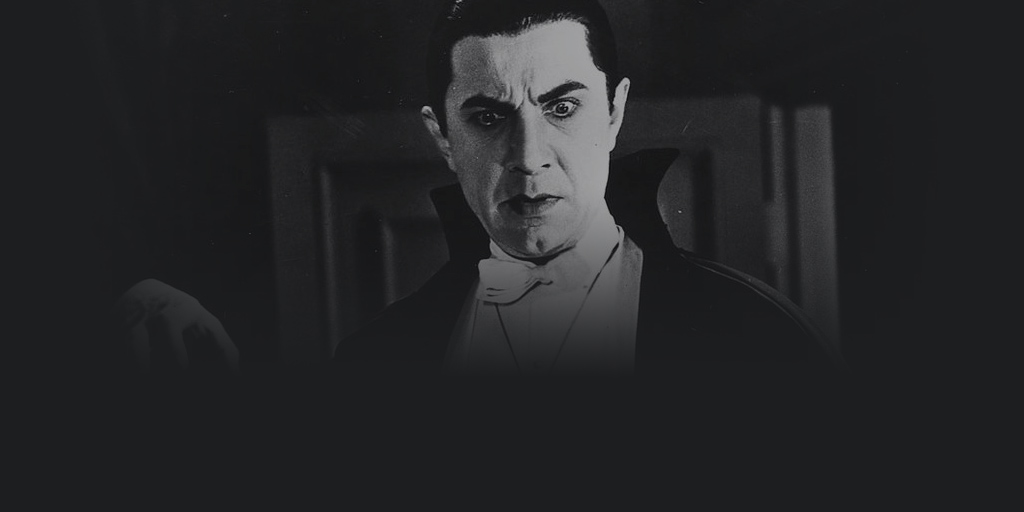
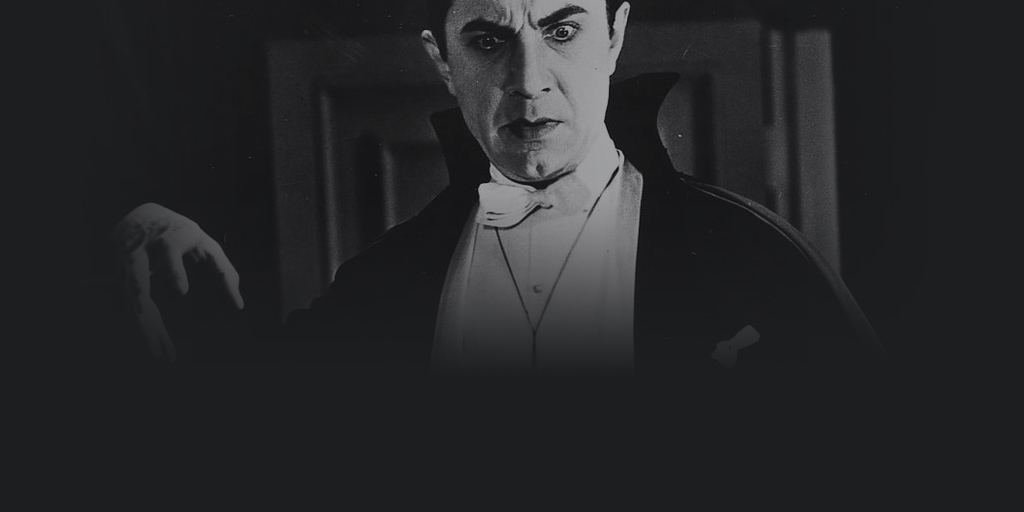
More bgs

diff --git a/book-project/layouts/partials/home_info.html b/book-project/layouts/partials/home_info.html
@@ -1,0 +1,27 @@
+{{ $_hugo_config := `{ "version": 1 }` }}
+{{- with $.Site.Params.homeInfoParams }}
+<article class="first-entry home-info">
+    <header class="entry-header">
+        <h1>{{- .Title | markdownify }}</h1>
+    </header>
+    <section class="entry-content">
+        <p>{{- .Content | markdownify }}</p>
+    </section>
+    <footer class="entry-footer">
+        {{- partial "social_icons.html" $.Site.Params.socialIcons -}}
+    </footer>
+</article>
+<style>
+.list {
+    background-image: url({{ .Site.BaseURL }}images/bgs/publishing-light-list.jpg);
+    background-position: center top;
+    background-repeat: no-repeat;	
+}
+.dark.list {
+    background-image: url({{ .Site.BaseURL }}images/bgs/publishing-dark.jpg);
+    background-position: center top;
+    background-repeat: no-repeat;	
+}
+</style>
+
+{{- end}}

diff --git a/book-project/layouts/shortcodes/listfeatured.html b/book-project/layouts/shortcodes/listfeatured.html
@@ -1,3 +1,3 @@
 {{ range  (where .Site.Sections "Type" "in" .Site.Params.featuredSections).ByTitle }}
-  <li><a href="{{ .Permalink }}front/">{{ .Title }}</a></li>
+  <h2><a href="{{ .Permalink }}front/">{{ .Title }}</a></h2>
 {{ end }}

diff --git a/book-project/layouts/shortcodes/listbooks.html b/book-project/layouts/shortcodes/listbooks.html
@@ -1,3 +1,3 @@
 {{ range  (where .Site.Sections "Type" "in" .Site.Params.mainSections).ByTitle }}
-  <li><a href="{{ .Permalink }}front/">{{ .Title }}</a></li>
+  <h3><a href="{{ .Permalink }}front/">{{ .Title }}</a></h3>
 {{ end }}

diff --git a/book-project/content/about.md b/book-project/content/about.md
@@ -9,3 +9,13 @@ ShowPostNavLinks: false
 This site is a book project.
 
 This example was made for the [Tarot.io](https://www.tarot.io/) free online library. With this example, you can make your own free online library too!
+
+## Freedom
+
+Freedom of the press is about you and me having the freedom to say, make, publish, and distribute any speech we want. Freedom of the press does not mean that mega-corporations have the right to blast us with propaganda 24/7 meant to bend us to their will while we don't even have the freedom to respond.
+
+Reject the idea that only a special class has the right to speak freely.
+
+Take back YOUR freedom of the press today!
+
+{{< setbackgroundimage publishing>}}
